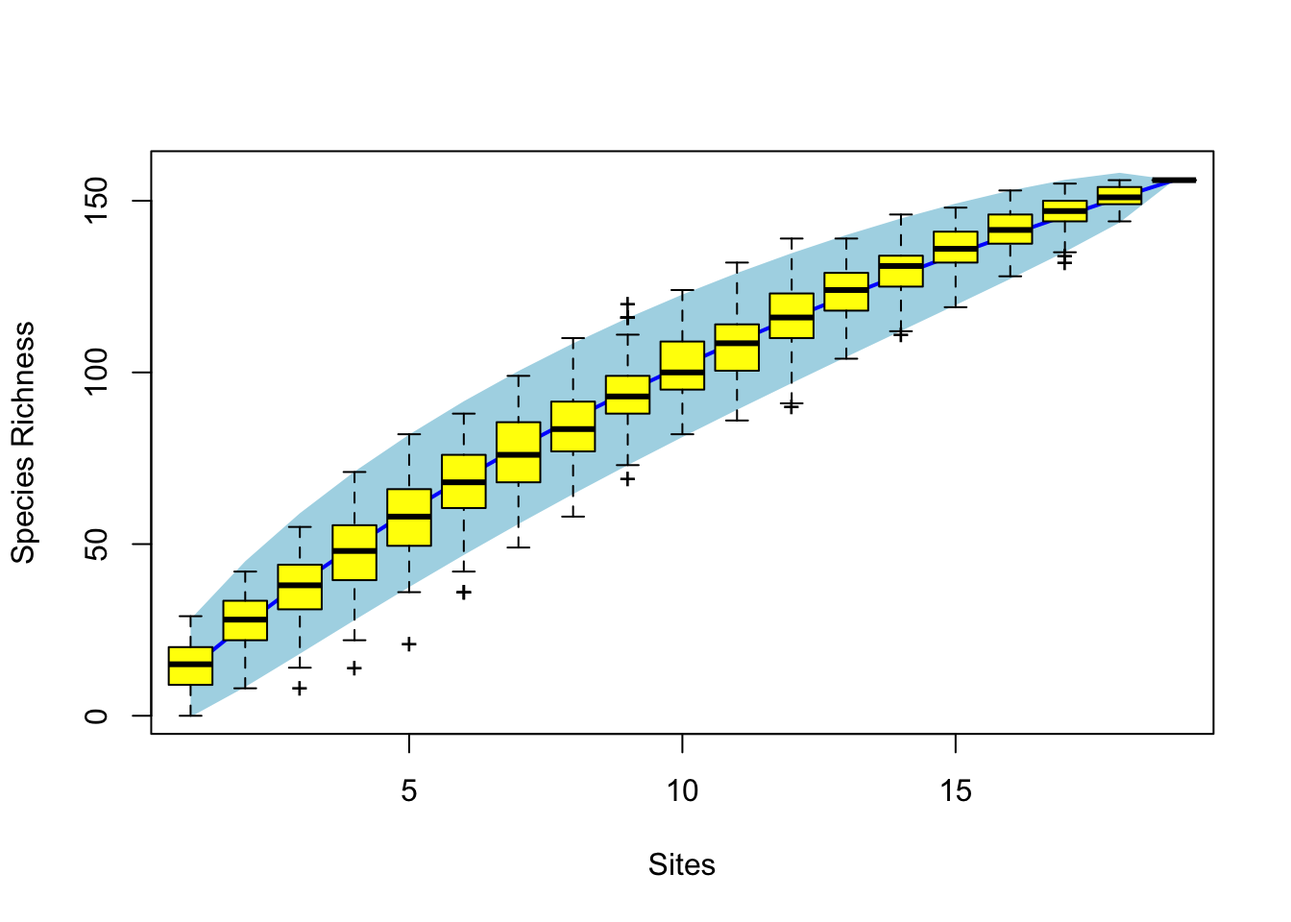
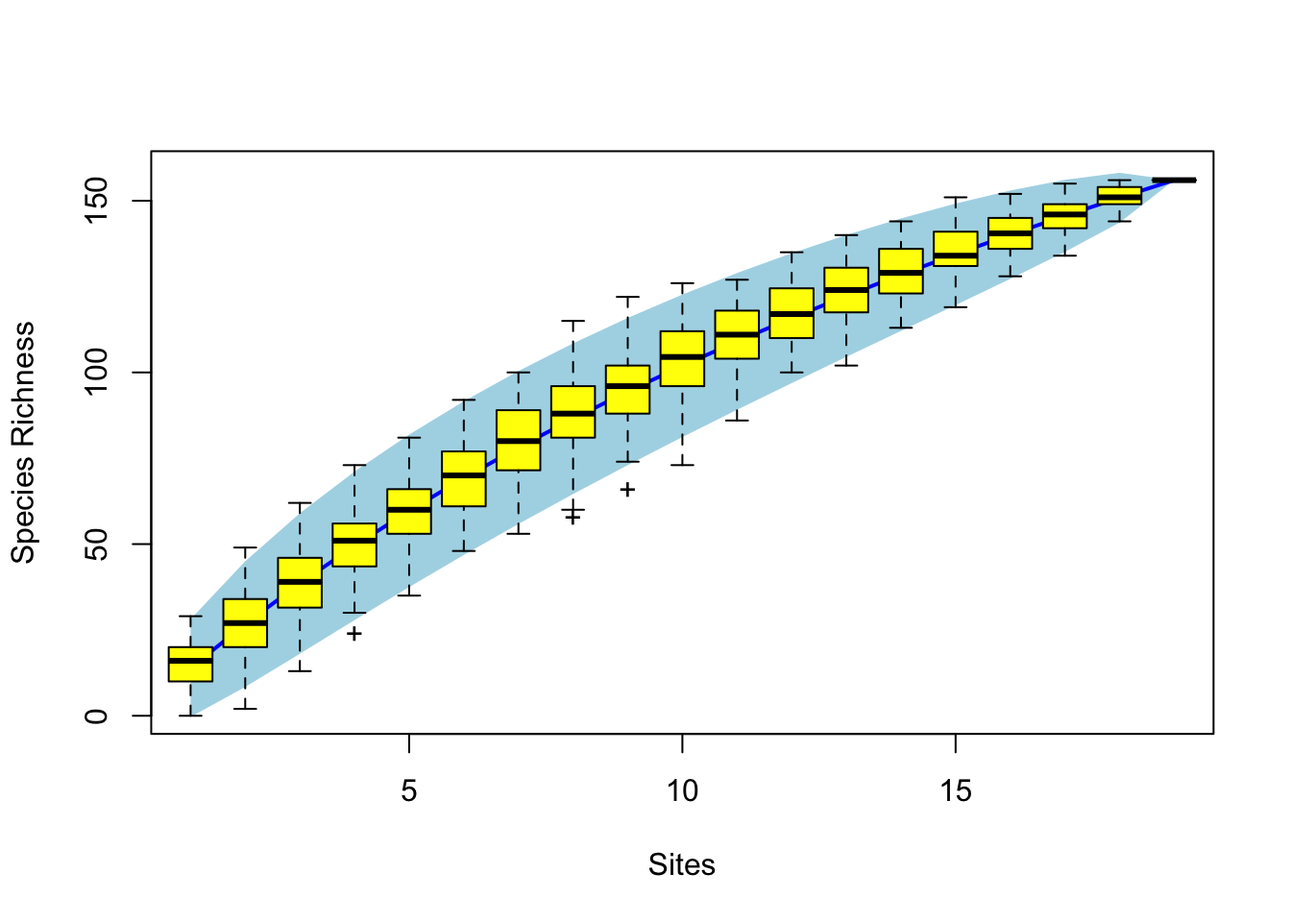
Built site for gh-pages

diff --git a/index.html b/index.html
@@ -143,14 +143,9 @@ ul.task-list li input[type="checkbox"] {
 
 <section id="overview" class="level2">
 <h2 class="anchored" data-anchor-id="overview">Overview</h2>
-<p>The following page summarizes the terrestrial vegetation data collected by BioSCape. This page was last updated Tue Aug 22 12:16:06 2023.</p>
-<div class="cell" data-hash="index_cache/html/unnamed-chunk-1_616fbe89e6703618fa6c77df126bdd28">
-<div class="cell-output cell-output-stderr">
-<pre><code>Warning in rgl.init(initValue, onlyNULL): RGL: unable to open X11 display</code></pre>
-</div>
-<div class="cell-output cell-output-stderr">
-<pre><code>Warning: 'rgl.init' failed, running with 'rgl.useNULL = TRUE'.</code></pre>
-</div>
+<p>The following page summarizes the terrestrial vegetation data collected by BioSCape. This page was last updated Tue Aug 22 12:45:51 2023.</p>
+<div class="cell" data-hash="index_cache/html/unnamed-chunk-1_687dfa5908d4a693cab833caeb97ceff">
+
 </div>
 <div class="cell">
 
@@ -161,8 +156,8 @@ ul.task-list li input[type="checkbox"] {
 <p>Currently 24 have been sampled. They are shown in the map below.</p>
 <div class="cell">
 <div class="cell-output-display">
-<div id="htmlwidget-46bc51e6d65a49600c0a" style="width:100%;height:464px;" class="leaflet html-widget"></div>
-<script type="application/json" data-for="htmlwidget-46bc51e6d65a49600c0a">{"x":{"options":{"crs":{"crsClass":"L.CRS.EPSG3857","code":null,"proj4def":null,"projectedBounds":null,"options":{}}},"calls":[{"method":"addTiles","args":["https://{s}.tile.openstreetmap.org/{z}/{x}/{y}.png",null,null,{"minZoom":0,"maxZoom":18,"tileSize":256,"subdomains":"abc","errorTileUrl":"","tms":false,"noWrap":false,"zoomOffset":0,"zoomReverse":false,"opacity":1,"zIndex":1,"detectRetina":false,"attribution":"&copy; <a href=\"https://openstreetmap.org\">OpenStreetMap<\/a> contributors, <a href=\"https://creativecommons.org/licenses/by-sa/2.0/\">CC-BY-SA<\/a>"}]},{"method":"addCircleMarkers","args":[[-34.8097194259026,-33.6392267558969,-33.4752441337697,-33.4693931819771,-33.4422650687212,-33.367907865418,-33.361745908562,-33.3628337672295,-33.3581340452856,-33.3545910305355,-33.3516875269995,-33.3422218265567,-33.3368242046542,-33.3439485400553,-33.3436134087899,-33.3321755279079,-33.3252742040352,-33.3185231347667,-33.3098061039003,-33.2845395059756,-33.2708700144912,-33.6359434727946,-34.7529951774825,-34.7190398517395,-34.4134535320493,-34.413264769259,-33.5698689923924,-33.5886495158556,-33.9899553825877,-33.7228297484624,-33.9347852007102,-33.9418721397163,-34.331745059249,-32.5292664249816,-32.5350905280065,-32.1483000931791,-32.1508344051923,-32.3455117008064,-32.2114817469904,-32.2518215283062,-32.5381872817494,-32.396218708131,-32.5347201630457,-32.4411970771677,-32.4312499971423,-32.2229411591682,-32.4361769348383,-32.1530315128344,-32.1392682755953,-32.9729894438648,-32.5271224563009,-32.4348038435541,-32.1367813218188,-32.1976968309848,-34.4737386190422,-34.4494524700385,-34.44289296647,-34.4053483276964,-34.4230718068403,-34.4094788982655,-34.3746349936026,-34.4610190254933,-34.4336314313099,-34.4729019598687,-33.9811134268651,-34.3536740850763,-33.7084443138772,-33.6964711698663,-33.7508196219816,-33.9227866605893,-33.9520833303395,-33.6141434305122,-33.5923268778099,-33.6230862920985,-33.5709226426281,-34.0021528522284,-33.97133042021,-33.7344086823393,-33.7180476308879,-33.2077559869469,-33.1620172653555,-34.2105119670935,-34.2896249511202,-34.075733658381,-34.2178422739919,-34.0883341390488,-34.3299201410761,-34.3230289396778,-34.3393542438795,-34.0702249029704,-34.3535947294888,-34.2871230006095,-34.3276344579437,-34.2952056740212,-34.2954958931228,-34.354064192546,-34.3231847625048,-34.3226941031501,-34.2246207326821,-34.3265635516064,-33.2225291505135,-33.2018416740442,-33.2260086602941,-33.2469971173353,-33.2300117804859,-33.1386188885095,-33.1630976257638,-33.1528926783999,-33.1258830489839,-33.1736573427043,-33.1491831930203,-32.6062499971266,-32.6156730849864,-33.9589814684784,-33.9945667632606,-33.1980104088742,-32.9965280338133,-33.6635703582624,-33.9186253724798,-33.6511266911757,-33.9597611023067,-33.9173021239872,-33.9540607772794,-32.3500514019596,-34.7464072153851,-34.7094768870097,-34.674729179764,-34.6092972321009,-34.5367121364283,-34.5421422107071,-34.4746676349642,-34.7467164816924,-34.6770833302745,-34.6645833302757,-34.7359267863265,-34.6354047531379,-33.9374008984105,-33.963784343322,-34.324583235356,-34.305755323641,-34.2932733856086,-34.260434257684,-34.2885146594787,-34.3118049240281,-34.2500032400541,-34.1826213828572,-34.2386962819004,-34.2074077592213,-34.1436178582255,-34.3209781975564,-34.1252198295451,-34.0795347987287,-34.0947628983574,-34.0888634315331,-34.0854903079211,-34.0816331202537,-33.9593702175233,-33.9641377715515,-33.9518526749272,-34.3739434710502,-34.408443019226,-34.4002911371208,-33.1170154731771,-33.1191024904761,-33.1133114166437,-33.1476076691655,-33.1131113739467,-33.1185447444447,-34.0650219529447,-33.9708974399949,-33.9547714175684,-33.9114315752868,-33.899764227683,-33.8458462906265,-33.8647775594223,-33.8797426790559,-33.8804374378613,-33.8834824459427,-33.9493834229505,-33.872470210194,-33.8992502094385,-33.9325702645016,-33.8647954398048,-33.8676241243844,-33.9088518845828,-33.8905058445005,-33.938043239967,-33.7204166234417,-33.6821521546785,-33.9484753609947,-33.9629282954112,-34.0727214644739,-33.9654827470577,-33.9899854393565,-33.9546437880145,-33.9711557734828,-33.9679352039447,-33.9460160244839,-33.916007355468,-33.9146583396371,-33.8307645788755,-34.0595682623815,-34.0714469034195,-33.978755187041,-33.9471312485528,-33.9859548603971,-34.0337588353037,-33.9606927718098,-33.9476864245727,-34.3247028347622,-34.3073595516476,-33.9378576408196,-33.9195982480147,-33.56529,-33.579201,-33.584776,-33.585436,-33.59212,-33.591671,-33.588553,-33.587994,-33.598675,-33.607402,-33.523834,-33.603123,-33.6582059623877,-33.662258,-33.757994905323,-33.7531198507536,-33.6779315915028,-33.4919288522653,-33.4854851693742,-33.479716626882,-33.4694468279683,-33.4661981643259,-33.4710742529418,-33.4704794714409,-33.4380098517485,-33.4436666221148,-33.4517936310773,-33.3658261694781,-33.3632243330373],[19.9536569802579,21.6516838101319,20.6776230863688,20.7188167873362,20.7631027859426,22.107943946366,22.0772900138699,22.0644415399132,22.0541819120002,22.0518487368924,22.0451594095854,22.0417423641297,22.0374107096232,22.0218853124173,22.0240359462854,22.0340235567041,22.0378311113321,22.0428901982491,22.0462707831255,22.0507129427705,22.0521816954439,21.6769816260018,19.6869991644931,19.7677459069571,20.6319227005476,20.5954154625985,18.3765776110985,18.3678864162632,18.955687618572,19.0923707500919,19.8965017078384,19.8898421275791,18.4630756283219,19.3412217959345,19.3317731958835,18.9405960655454,19.026184291502,19.0329429857868,19.1045980707641,19.1349532396041,19.3250578633722,19.0869526857084,19.3120584781843,19.1951378345082,19.1416699978793,19.1165487743256,19.1794496538295,19.0313393073017,19.0182927895657,19.0525141385998,19.3483189417082,19.1964091631676,18.9851126762119,19.0943785213406,20.5025743001321,20.4120041983271,20.4200579848569,20.5615634312983,20.4096774586804,20.5777052296389,20.5350351860464,20.4269242320999,20.4193887458078,20.458323723068,22.7140741877458,18.8375132762442,19.079018685908,19.076398244688,19.0656806196802,19.1583183998001,19.1755941123812,19.1008070581604,19.1234837761658,19.0990609578481,19.1367905604475,19.189135875724,19.289545659658,19.1212134614355,19.0700544248249,18.0942060149087,18.045678894835,19.1614774279678,19.1138077518438,19.0616498707456,19.1722708369357,19.056374499636,18.9959424210921,19.1038609379255,18.9857409613805,19.0684130334329,18.9035301385939,19.1105307620156,19.0295586394312,19.1172410984372,19.1230692794139,18.8842920369759,18.9644433611195,18.9716228646805,19.1733158316013,18.9658504606928,18.1076718333212,18.1405917870433,18.1391294378444,18.1939369399473,18.1635656842236,18.0995393696753,18.1277475389879,18.1211782412227,18.0609994907189,18.137586948789,18.0290328300397,18.2985518209419,18.2964622845511,21.2301785706705,22.7215474834847,18.0864562723941,19.0596816080386,21.640451109351,22.4174070340035,21.6420978589139,19.9022520143044,19.8842684529264,19.8936346935445,19.0149888740881,19.6542326387416,20.1079738504094,20.2293442472556,19.4214988925009,19.4127530800428,19.4075541430669,20.4859065403286,19.9774019142642,19.6408557180503,19.6480238780174,19.6644463240067,19.5836009450243,18.3940145162838,18.3860265274313,18.4453849210133,18.4377365937424,18.4282888860545,18.4542549109937,18.4476717923014,18.4293797480051,18.4128469755522,18.4053043352147,18.3865082392424,18.4526183215221,18.4049516974195,18.4561899076164,18.4360993618165,18.3969602023968,18.4586141613618,18.4176490355672,18.420503960072,18.4007786299413,18.4061208603993,18.4123261739112,18.4559418226729,20.5186865005448,20.6234241671177,20.555916387583,18.0859713458945,18.0632286370343,18.0748896114925,18.0121683707063,18.090571586489,18.0768834141833,20.4393632249948,23.1451941571173,23.1544498094291,23.1362176203691,22.9740524076474,23.194661770902,22.0282066894346,22.0298460569927,22.4387709756287,22.4286910274796,21.0577070478243,22.0302081488611,22.4155061194101,21.0716900101697,23.1514988425752,23.1730386128607,22.023633981356,22.0224119400538,21.0531922093074,21.6415814630719,21.647956806353,18.402195688993,18.4110342041973,20.4506288888957,23.8968109255028,22.6630891502887,23.5143852224973,23.5610432950275,23.5385482300426,23.6248781695353,22.9574590660471,23.1450351965928,23.179669408459,20.4316009652176,20.4391424012027,21.2194067439832,21.2273857248934,23.5463823771519,23.1982736278799,23.5436949924557,23.6028132704673,18.8453057714931,18.8257856661698,19.1638546442817,19.161705745477,23.376375,23.398116,23.400979,23.397622,23.408746,23.41506,23.423485,23.428015,23.40909,23.414694,23.447996,23.35373,23.1337514753755,23.133333,23.1613514415301,23.1676607794179,23.1472549947125,20.4842059876787,20.4971284281099,20.5146283195886,20.5629068570439,20.5776901292759,20.6191496480308,20.639518859376,20.7762147662317,20.8076730988489,20.8534176823731,22.0984890930547,22.0911142238033],5,null,null,{"interactive":true,"className":"","stroke":false,"color":"#000000","weight":5,"opacity":0.5,"fill":true,"fillColor":["#440154","#440154","#440154","#440154","#440154","#440154","#440154","#440154","#440154","#440154","#440154","#440154","#440154","#440154","#440154","#440154","#440154","#440154","#440154","#440154","#440154","#440154","#440154","#440154","#440154","#440154","#440154","#440154","#440154","#440154","#440154","#440154","#FDE725","#440154","#440154","#FDE725","#FDE725","#440154","#FDE725","#440154","#440154","#440154","#440154","#440154","#440154","#FDE725","#440154","#FDE725","#FDE725","#440154","#440154","#440154","#FDE725","#FDE725","#440154","#440154","#440154","#440154","#440154","#440154","#440154","#440154","#440154","#440154","#FDE725","#440154","#440154","#440154","#440154","#440154","#440154","#440154","#440154","#440154","#440154","#440154","#440154","#440154","#440154","#440154","#440154","#440154","#440154","#440154","#440154","#440154","#440154","#440154","#440154","#440154","#440154","#440154","#440154","#440154","#440154","#440154","#440154","#440154","#440154","#440154","#440154","#440154","#440154","#440154","#440154","#440154","#440154","#440154","#440154","#440154","#440154","#440154","#440154","#440154","#FDE725","#440154","#440154","#440154","#440154","#440154","#440154","#440154","#440154","#440154","#440154","#440154","#440154","#440154","#440154","#440154","#440154","#440154","#440154","#440154","#440154","#440154","#440154","#440154","#FDE725","#FDE725","#FDE725","#FDE725","#FDE725","#FDE725","#FDE725","#FDE725","#FDE725","#440154","#440154","#FDE725","#440154","#440154","#440154","#440154","#440154","#440154","#440154","#440154","#440154","#440154","#440154","#440154","#440154","#440154","#440154","#440154","#440154","#440154","#440154","#440154","#440154","#440154","#FDE725","#440154","#440154","#440154","#440154","#440154","#440154","#440154","#440154","#440154","#440154","#440154","#440154","#440154","#440154","#440154","#440154","#440154","#440154","#440154","#440154","#FDE725","#440154","#440154","#440154","#440154","#FDE725","#440154","#440154","#440154","#440154","#440154","#440154","#440154","#440154","#440154","#440154","#440154","#440154","#440154","#440154","#440154","#440154","#440154","#440154","#440154","#440154","#440154","#440154","#440154","#440154","#440154","#440154","#440154","#440154","#440154","#440154","#440154","#440154","#440154","#440154","#440154","#440154","#440154","#440154","#440154","#440154","#440154","#440154","#440154"],"fillOpacity":0.7},null,null,["24","J4","J13","J14","J15","J19","J22","J23","J24","J25","J26","J27","J28","J29","J30","J31","J32","J33","J34","J35","J36","J5","17","20","114","123","84","95","205","207","63","264","76","166","168","169","171","179","230","231","232","233","236","238","239","240","241","242","243","254","279","280","289","290","135","132","112","118","119","128","129","137","273","274","148","215","192","194","197","211","216","218","219","220","226","228","234","235","285","183","281","193","196","198","199","200","204","208","209","212","213","217","221","222","223","224","227","229","287","288","78","83","87","88","91","172","173","177","178","180","277","269","270","117","278","164","237","50","58","62","1","2","253","170","9","19","23","8","66","67","284","6","5","10","18","22","80","82","68","74","77","79","81","85","93","96","97","98","265","266","71","70","75","86","89","92","201","72","94","130","124","131","184","175","176","182","282","181","187","139","275","51","161","159","52","54","55","56","57","59","60","61","140","162","185","261","262","245","38","69","195","188","143","147","146","150","155","163","149","153","144","120","138","136","186","160","53","156","158","191","206","190","202","Clark1","Clark2","Clark3","Clark4","Clark5","Clark6","Clark7","Clark8","Clark9","Clark10","Clark11","Clark12","Clark13","Clark14","J1","J2","J3","J6","J7","J8","J9","J10","J11","J12","J16","J17","J18","J20","J21"],null,null,{"interactive":false,"permanent":false,"direction":"auto","opacity":1,"offset":[0,0],"textsize":"10px","textOnly":false,"className":"","sticky":true},null]},{"method":"addLegend","args":[{"colors":["#440154","#FDE725"],"labels":["FALSE","TRUE"],"na_color":null,"na_label":"NA","opacity":1,"position":"bottomright","type":"factor","title":"Sampled Values","extra":null,"layerId":null,"className":"info legend","group":null}]}],"limits":{"lat":[-34.8097194259026,-32.1367813218188],"lng":[18.0121683707063,23.8968109255028]}},"evals":[],"jsHooks":[]}</script>
+<div id="htmlwidget-9d831b20f6932b97f3c7" style="width:100%;height:464px;" class="leaflet html-widget"></div>
+<script type="application/json" data-for="htmlwidget-9d831b20f6932b97f3c7">{"x":{"options":{"crs":{"crsClass":"L.CRS.EPSG3857","code":null,"proj4def":null,"projectedBounds":null,"options":{}}},"calls":[{"method":"addTiles","args":["https://{s}.tile.openstreetmap.org/{z}/{x}/{y}.png",null,null,{"minZoom":0,"maxZoom":18,"tileSize":256,"subdomains":"abc","errorTileUrl":"","tms":false,"noWrap":false,"zoomOffset":0,"zoomReverse":false,"opacity":1,"zIndex":1,"detectRetina":false,"attribution":"&copy; <a href=\"https://openstreetmap.org\">OpenStreetMap<\/a> contributors, <a href=\"https://creativecommons.org/licenses/by-sa/2.0/\">CC-BY-SA<\/a>"}]},{"method":"addCircleMarkers","args":[[-34.8097194259026,-33.6392267558969,-33.4752441337697,-33.4693931819771,-33.4422650687212,-33.367907865418,-33.361745908562,-33.3628337672295,-33.3581340452856,-33.3545910305355,-33.3516875269995,-33.3422218265567,-33.3368242046542,-33.3439485400553,-33.3436134087899,-33.3321755279079,-33.3252742040352,-33.3185231347667,-33.3098061039003,-33.2845395059756,-33.2708700144912,-33.6359434727946,-34.7529951774825,-34.7190398517395,-34.4134535320493,-34.413264769259,-33.5698689923924,-33.5886495158556,-33.9899553825877,-33.7228297484624,-33.9347852007102,-33.9418721397163,-34.331745059249,-32.5292664249816,-32.5350905280065,-32.1483000931791,-32.1508344051923,-32.3455117008064,-32.2114817469904,-32.2518215283062,-32.5381872817494,-32.396218708131,-32.5347201630457,-32.4411970771677,-32.4312499971423,-32.2229411591682,-32.4361769348383,-32.1530315128344,-32.1392682755953,-32.9729894438648,-32.5271224563009,-32.4348038435541,-32.1367813218188,-32.1976968309848,-34.4737386190422,-34.4494524700385,-34.44289296647,-34.4053483276964,-34.4230718068403,-34.4094788982655,-34.3746349936026,-34.4610190254933,-34.4336314313099,-34.4729019598687,-33.9811134268651,-34.3536740850763,-33.7084443138772,-33.6964711698663,-33.7508196219816,-33.9227866605893,-33.9520833303395,-33.6141434305122,-33.5923268778099,-33.6230862920985,-33.5709226426281,-34.0021528522284,-33.97133042021,-33.7344086823393,-33.7180476308879,-33.2077559869469,-33.1620172653555,-34.2105119670935,-34.2896249511202,-34.075733658381,-34.2178422739919,-34.0883341390488,-34.3299201410761,-34.3230289396778,-34.3393542438795,-34.0702249029704,-34.3535947294888,-34.2871230006095,-34.3276344579437,-34.2952056740212,-34.2954958931228,-34.354064192546,-34.3231847625048,-34.3226941031501,-34.2246207326821,-34.3265635516064,-33.2225291505135,-33.2018416740442,-33.2260086602941,-33.2469971173353,-33.2300117804859,-33.1386188885095,-33.1630976257638,-33.1528926783999,-33.1258830489839,-33.1736573427043,-33.1491831930203,-32.6062499971266,-32.6156730849864,-33.9589814684784,-33.9945667632606,-33.1980104088742,-32.9965280338133,-33.6635703582624,-33.9186253724798,-33.6511266911757,-33.9597611023067,-33.9173021239872,-33.9540607772794,-32.3500514019596,-34.7464072153851,-34.7094768870097,-34.674729179764,-34.6092972321009,-34.5367121364283,-34.5421422107071,-34.4746676349642,-34.7467164816924,-34.6770833302745,-34.6645833302757,-34.7359267863265,-34.6354047531379,-33.9374008984105,-33.963784343322,-34.324583235356,-34.305755323641,-34.2932733856086,-34.260434257684,-34.2885146594787,-34.3118049240281,-34.2500032400541,-34.1826213828572,-34.2386962819004,-34.2074077592213,-34.1436178582255,-34.3209781975564,-34.1252198295451,-34.0795347987287,-34.0947628983574,-34.0888634315331,-34.0854903079211,-34.0816331202537,-33.9593702175233,-33.9641377715515,-33.9518526749272,-34.3739434710502,-34.408443019226,-34.4002911371208,-33.1170154731771,-33.1191024904761,-33.1133114166437,-33.1476076691655,-33.1131113739467,-33.1185447444447,-34.0650219529447,-33.9708974399949,-33.9547714175684,-33.9114315752868,-33.899764227683,-33.8458462906265,-33.8647775594223,-33.8797426790559,-33.8804374378613,-33.8834824459427,-33.9493834229505,-33.872470210194,-33.8992502094385,-33.9325702645016,-33.8647954398048,-33.8676241243844,-33.9088518845828,-33.8905058445005,-33.938043239967,-33.7204166234417,-33.6821521546785,-33.9484753609947,-33.9629282954112,-34.0727214644739,-33.9654827470577,-33.9899854393565,-33.9546437880145,-33.9711557734828,-33.9679352039447,-33.9460160244839,-33.916007355468,-33.9146583396371,-33.8307645788755,-34.0595682623815,-34.0714469034195,-33.978755187041,-33.9471312485528,-33.9859548603971,-34.0337588353037,-33.9606927718098,-33.9476864245727,-34.3247028347622,-34.3073595516476,-33.9378576408196,-33.9195982480147,-33.56529,-33.579201,-33.584776,-33.585436,-33.59212,-33.591671,-33.588553,-33.587994,-33.598675,-33.607402,-33.523834,-33.603123,-33.6582059623877,-33.662258,-33.757994905323,-33.7531198507536,-33.6779315915028,-33.4919288522653,-33.4854851693742,-33.479716626882,-33.4694468279683,-33.4661981643259,-33.4710742529418,-33.4704794714409,-33.4380098517485,-33.4436666221148,-33.4517936310773,-33.3658261694781,-33.3632243330373],[19.9536569802579,21.6516838101319,20.6776230863688,20.7188167873362,20.7631027859426,22.107943946366,22.0772900138699,22.0644415399132,22.0541819120002,22.0518487368924,22.0451594095854,22.0417423641297,22.0374107096232,22.0218853124173,22.0240359462854,22.0340235567041,22.0378311113321,22.0428901982491,22.0462707831255,22.0507129427705,22.0521816954439,21.6769816260018,19.6869991644931,19.7677459069571,20.6319227005476,20.5954154625985,18.3765776110985,18.3678864162632,18.955687618572,19.0923707500919,19.8965017078384,19.8898421275791,18.4630756283219,19.3412217959345,19.3317731958835,18.9405960655454,19.026184291502,19.0329429857868,19.1045980707641,19.1349532396041,19.3250578633722,19.0869526857084,19.3120584781843,19.1951378345082,19.1416699978793,19.1165487743256,19.1794496538295,19.0313393073017,19.0182927895657,19.0525141385998,19.3483189417082,19.1964091631676,18.9851126762119,19.0943785213406,20.5025743001321,20.4120041983271,20.4200579848569,20.5615634312983,20.4096774586804,20.5777052296389,20.5350351860464,20.4269242320999,20.4193887458078,20.458323723068,22.7140741877458,18.8375132762442,19.079018685908,19.076398244688,19.0656806196802,19.1583183998001,19.1755941123812,19.1008070581604,19.1234837761658,19.0990609578481,19.1367905604475,19.189135875724,19.289545659658,19.1212134614355,19.0700544248249,18.0942060149087,18.045678894835,19.1614774279678,19.1138077518438,19.0616498707456,19.1722708369357,19.056374499636,18.9959424210921,19.1038609379255,18.9857409613805,19.0684130334329,18.9035301385939,19.1105307620156,19.0295586394312,19.1172410984372,19.1230692794139,18.8842920369759,18.9644433611195,18.9716228646805,19.1733158316013,18.9658504606928,18.1076718333212,18.1405917870433,18.1391294378444,18.1939369399473,18.1635656842236,18.0995393696753,18.1277475389879,18.1211782412227,18.0609994907189,18.137586948789,18.0290328300397,18.2985518209419,18.2964622845511,21.2301785706705,22.7215474834847,18.0864562723941,19.0596816080386,21.640451109351,22.4174070340035,21.6420978589139,19.9022520143044,19.8842684529264,19.8936346935445,19.0149888740881,19.6542326387416,20.1079738504094,20.2293442472556,19.4214988925009,19.4127530800428,19.4075541430669,20.4859065403286,19.9774019142642,19.6408557180503,19.6480238780174,19.6644463240067,19.5836009450243,18.3940145162838,18.3860265274313,18.4453849210133,18.4377365937424,18.4282888860545,18.4542549109937,18.4476717923014,18.4293797480051,18.4128469755522,18.4053043352147,18.3865082392424,18.4526183215221,18.4049516974195,18.4561899076164,18.4360993618165,18.3969602023968,18.4586141613618,18.4176490355672,18.420503960072,18.4007786299413,18.4061208603993,18.4123261739112,18.4559418226729,20.5186865005448,20.6234241671177,20.555916387583,18.0859713458945,18.0632286370343,18.0748896114925,18.0121683707063,18.090571586489,18.0768834141833,20.4393632249948,23.1451941571173,23.1544498094291,23.1362176203691,22.9740524076474,23.194661770902,22.0282066894346,22.0298460569927,22.4387709756287,22.4286910274796,21.0577070478243,22.0302081488611,22.4155061194101,21.0716900101697,23.1514988425752,23.1730386128607,22.023633981356,22.0224119400538,21.0531922093074,21.6415814630719,21.647956806353,18.402195688993,18.4110342041973,20.4506288888957,23.8968109255028,22.6630891502887,23.5143852224973,23.5610432950275,23.5385482300426,23.6248781695353,22.9574590660471,23.1450351965928,23.179669408459,20.4316009652176,20.4391424012027,21.2194067439832,21.2273857248934,23.5463823771519,23.1982736278799,23.5436949924557,23.6028132704673,18.8453057714931,18.8257856661698,19.1638546442817,19.161705745477,23.376375,23.398116,23.400979,23.397622,23.408746,23.41506,23.423485,23.428015,23.40909,23.414694,23.447996,23.35373,23.1337514753755,23.133333,23.1613514415301,23.1676607794179,23.1472549947125,20.4842059876787,20.4971284281099,20.5146283195886,20.5629068570439,20.5776901292759,20.6191496480308,20.639518859376,20.7762147662317,20.8076730988489,20.8534176823731,22.0984890930547,22.0911142238033],5,null,null,{"interactive":true,"className":"","stroke":false,"color":"#000000","weight":5,"opacity":0.5,"fill":true,"fillColor":["#440154","#440154","#440154","#440154","#440154","#440154","#440154","#440154","#440154","#440154","#440154","#440154","#440154","#440154","#440154","#440154","#440154","#440154","#440154","#440154","#440154","#440154","#440154","#440154","#440154","#440154","#440154","#440154","#440154","#440154","#440154","#440154","#FDE725","#440154","#440154","#FDE725","#FDE725","#440154","#FDE725","#440154","#440154","#440154","#440154","#440154","#440154","#FDE725","#440154","#FDE725","#FDE725","#440154","#440154","#440154","#FDE725","#FDE725","#440154","#440154","#440154","#440154","#440154","#440154","#440154","#440154","#440154","#440154","#FDE725","#440154","#440154","#440154","#440154","#440154","#440154","#440154","#440154","#440154","#440154","#440154","#440154","#440154","#440154","#440154","#440154","#440154","#440154","#440154","#440154","#440154","#440154","#440154","#440154","#440154","#440154","#440154","#440154","#440154","#440154","#440154","#440154","#440154","#440154","#440154","#440154","#440154","#440154","#440154","#440154","#440154","#440154","#440154","#440154","#440154","#440154","#440154","#440154","#440154","#FDE725","#440154","#440154","#440154","#440154","#440154","#440154","#440154","#440154","#440154","#440154","#440154","#440154","#440154","#440154","#440154","#440154","#440154","#440154","#440154","#440154","#440154","#440154","#440154","#FDE725","#FDE725","#FDE725","#FDE725","#FDE725","#FDE725","#FDE725","#FDE725","#FDE725","#440154","#440154","#FDE725","#440154","#440154","#440154","#440154","#440154","#440154","#440154","#440154","#440154","#440154","#440154","#440154","#440154","#440154","#440154","#440154","#440154","#440154","#440154","#440154","#440154","#440154","#FDE725","#440154","#440154","#440154","#440154","#440154","#440154","#440154","#440154","#440154","#440154","#440154","#440154","#440154","#440154","#440154","#440154","#440154","#440154","#440154","#440154","#FDE725","#440154","#440154","#440154","#440154","#FDE725","#440154","#440154","#440154","#440154","#440154","#440154","#440154","#440154","#440154","#440154","#440154","#440154","#440154","#440154","#440154","#440154","#440154","#440154","#440154","#440154","#440154","#440154","#440154","#440154","#440154","#440154","#440154","#440154","#440154","#440154","#440154","#440154","#440154","#440154","#440154","#440154","#440154","#440154","#440154","#440154","#440154","#440154","#440154"],"fillOpacity":0.7},null,null,["24","J4","J13","J14","J15","J19","J22","J23","J24","J25","J26","J27","J28","J29","J30","J31","J32","J33","J34","J35","J36","J5","17","20","114","123","84","95","205","207","63","264","76","166","168","169","171","179","230","231","232","233","236","238","239","240","241","242","243","254","279","280","289","290","135","132","112","118","119","128","129","137","273","274","148","215","192","194","197","211","216","218","219","220","226","228","234","235","285","183","281","193","196","198","199","200","204","208","209","212","213","217","221","222","223","224","227","229","287","288","78","83","87","88","91","172","173","177","178","180","277","269","270","117","278","164","237","50","58","62","1","2","253","170","9","19","23","8","66","67","284","6","5","10","18","22","80","82","68","74","77","79","81","85","93","96","97","98","265","266","71","70","75","86","89","92","201","72","94","130","124","131","184","175","176","182","282","181","187","139","275","51","161","159","52","54","55","56","57","59","60","61","140","162","185","261","262","245","38","69","195","188","143","147","146","150","155","163","149","153","144","120","138","136","186","160","53","156","158","191","206","190","202","Clark1","Clark2","Clark3","Clark4","Clark5","Clark6","Clark7","Clark8","Clark9","Clark10","Clark11","Clark12","Clark13","Clark14","J1","J2","J3","J6","J7","J8","J9","J10","J11","J12","J16","J17","J18","J20","J21"],null,null,{"interactive":false,"permanent":false,"direction":"auto","opacity":1,"offset":[0,0],"textsize":"10px","textOnly":false,"className":"","sticky":true},null]},{"method":"addLegend","args":[{"colors":["#440154","#FDE725"],"labels":["FALSE","TRUE"],"na_color":null,"na_label":"NA","opacity":1,"position":"bottomright","type":"factor","title":"Sampled Values","extra":null,"layerId":null,"className":"info legend","group":null}]}],"limits":{"lat":[-34.8097194259026,-32.1367813218188],"lng":[18.0121683707063,23.8968109255028]}},"evals":[],"jsHooks":[]}</script>
 </div>
 </div>
 </section>
@@ -291,61 +286,6 @@ ul.task-list li input[type="checkbox"] {
 </div>
 <p>The plot below shows the species accumulation curve of the plots collected so far.</p>
 <div class="cell">
-<div class="cell-output cell-output-stdout">
-<pre><code>Species Accumulation Curve
-Accumulation method: random, with 100 permutations
-Call: specaccum(comm = plot_species[-1, -1], method = "random") 
-
-                                                                       
-Sites     1.00000  2.00000  3.00000  4.00000  5.00000  6.00000  7.00000
-Richness 14.06000 26.79000 37.59000 47.47000 57.77000 67.49000 76.08000
-sd        7.03501  7.92043  9.13987 10.86971 11.69465 11.21822 10.83921
-                                                                           
-Sites     8.00000  9.00000  10.00000  11.0000  12.00000  13.00000  14.00000
-Richness 84.00000 93.49000 101.70000 108.4600 116.10000 123.34000 130.00000
-sd       11.21327 10.34017   9.78403   9.4681   9.57111   8.49506   7.41143
-                                                    
-Sites     15.00000  16.00000  17.00000  18.00000  19
-Richness 136.05000 141.62000 146.53000 151.49000 156
-sd         6.74106   5.79059   4.86475   3.42154   0</code></pre>
-</div>
-<div class="cell-output cell-output-stdout">
-<pre><code> 1 sites         2 sites         3 sites         4 sites        
- Min.   : 0.00   Min.   : 8.00   Min.   : 8.00   Min.   :14.00  
- 1st Qu.: 9.50   1st Qu.:22.00   1st Qu.:31.00   1st Qu.:39.75  
- Median :15.00   Median :28.00   Median :38.00   Median :48.00  
- Mean   :14.06   Mean   :26.79   Mean   :37.59   Mean   :47.47  
- 3rd Qu.:20.00   3rd Qu.:33.25   3rd Qu.:44.00   3rd Qu.:55.25  
- Max.   :29.00   Max.   :42.00   Max.   :55.00   Max.   :71.00  
- 5 sites         6 sites         7 sites         8 sites         
- Min.   :21.00   Min.   :36.00   Min.   :49.00   Min.   : 58.00  
- 1st Qu.:49.75   1st Qu.:60.75   1st Qu.:68.00   1st Qu.: 77.00  
- Median :58.00   Median :68.00   Median :76.00   Median : 83.50  
- Mean   :57.77   Mean   :67.49   Mean   :76.08   Mean   : 84.00  
- 3rd Qu.:66.00   3rd Qu.:76.00   3rd Qu.:85.25   3rd Qu.: 91.25  
- Max.   :82.00   Max.   :88.00   Max.   :99.00   Max.   :110.00  
- 9 sites          10 sites        11 sites        12 sites       
- Min.   : 69.00   Min.   : 82.0   Min.   : 86.0   Min.   : 90.0  
- 1st Qu.: 88.00   1st Qu.: 95.0   1st Qu.:100.8   1st Qu.:110.0  
- Median : 93.00   Median :100.0   Median :108.5   Median :116.0  
- Mean   : 93.49   Mean   :101.7   Mean   :108.5   Mean   :116.1  
- 3rd Qu.: 99.00   3rd Qu.:109.0   3rd Qu.:114.0   3rd Qu.:123.0  
- Max.   :120.00   Max.   :124.0   Max.   :132.0   Max.   :139.0  
- 13 sites        14 sites      15 sites        16 sites        17 sites       
- Min.   :104.0   Min.   :111   Min.   :119.0   Min.   :128.0   Min.   :132.0  
- 1st Qu.:118.0   1st Qu.:125   1st Qu.:132.0   1st Qu.:137.8   1st Qu.:144.0  
- Median :124.0   Median :131   Median :136.0   Median :141.5   Median :147.0  
- Mean   :123.3   Mean   :130   Mean   :136.1   Mean   :141.6   Mean   :146.5  
- 3rd Qu.:129.0   3rd Qu.:134   3rd Qu.:141.0   3rd Qu.:146.0   3rd Qu.:150.0  
- Max.   :139.0   Max.   :146   Max.   :148.0   Max.   :153.0   Max.   :155.0  
- 18 sites        19 sites     
- Min.   :144.0   Min.   :156  
- 1st Qu.:149.0   1st Qu.:156  
- Median :151.0   Median :156  
- Mean   :151.5   Mean   :156  
- 3rd Qu.:154.0   3rd Qu.:156  
- Max.   :156.0   Max.   :156  </code></pre>
-</div>
 <div class="cell-output-display">
 <p><img src="index_files/figure-html/unnamed-chunk-6-1.png" class="img-fluid" width="672"></p>
 </div>
